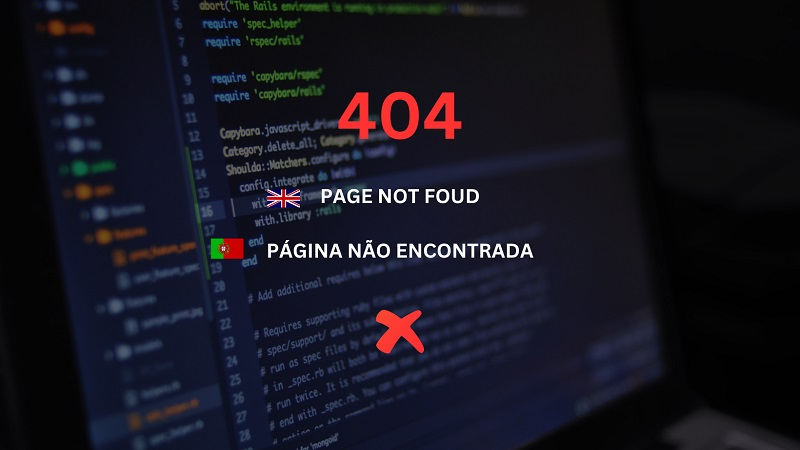
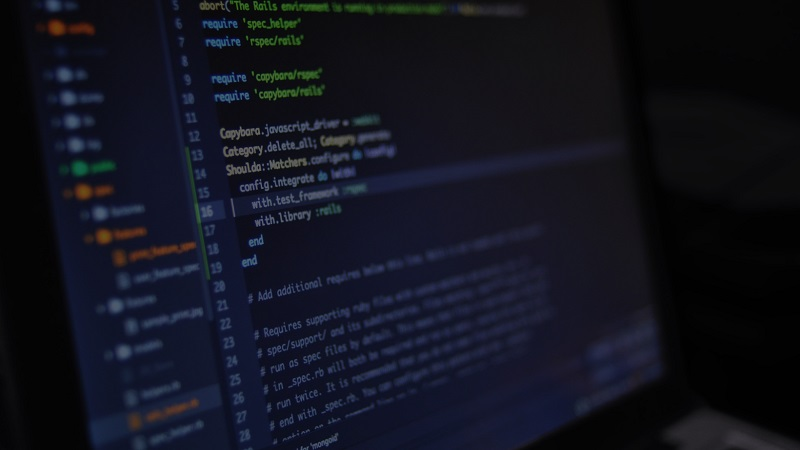
Add responsive background image for 404 page on tablets and smaller devices

diff --git a/src/main.css b/src/main.css
@@ -1100,7 +1100,7 @@ input:hover {
 
 .page404 .content-box .title {
   font-size: 15rem;
-  color: red;
+  color: rgb(218, 51, 51);
   text-align: center;
 }
 

diff --git a/src/responsive.css b/src/responsive.css
@@ -56,7 +56,7 @@
   }
 
   .page404 {
-    background-image: url(../images/error/404.png);
+    background-image: url(../images/error/404_tablet.jpg);
 
   }
 }
